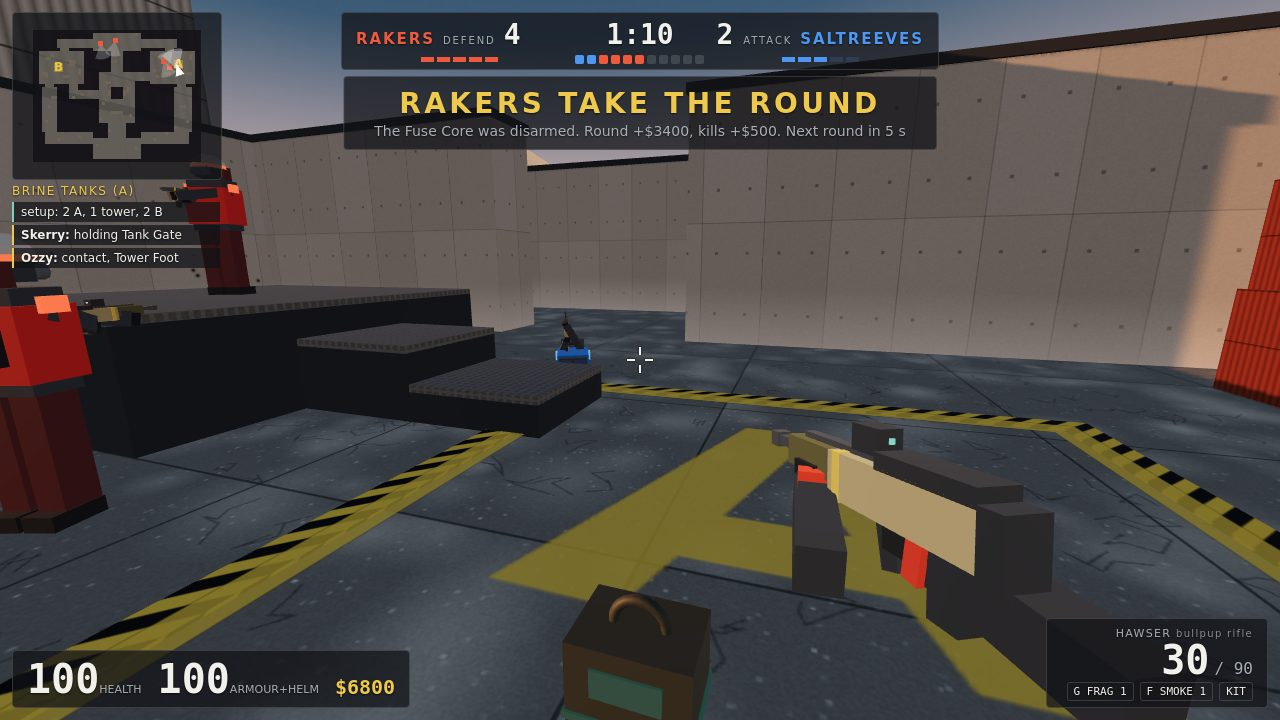
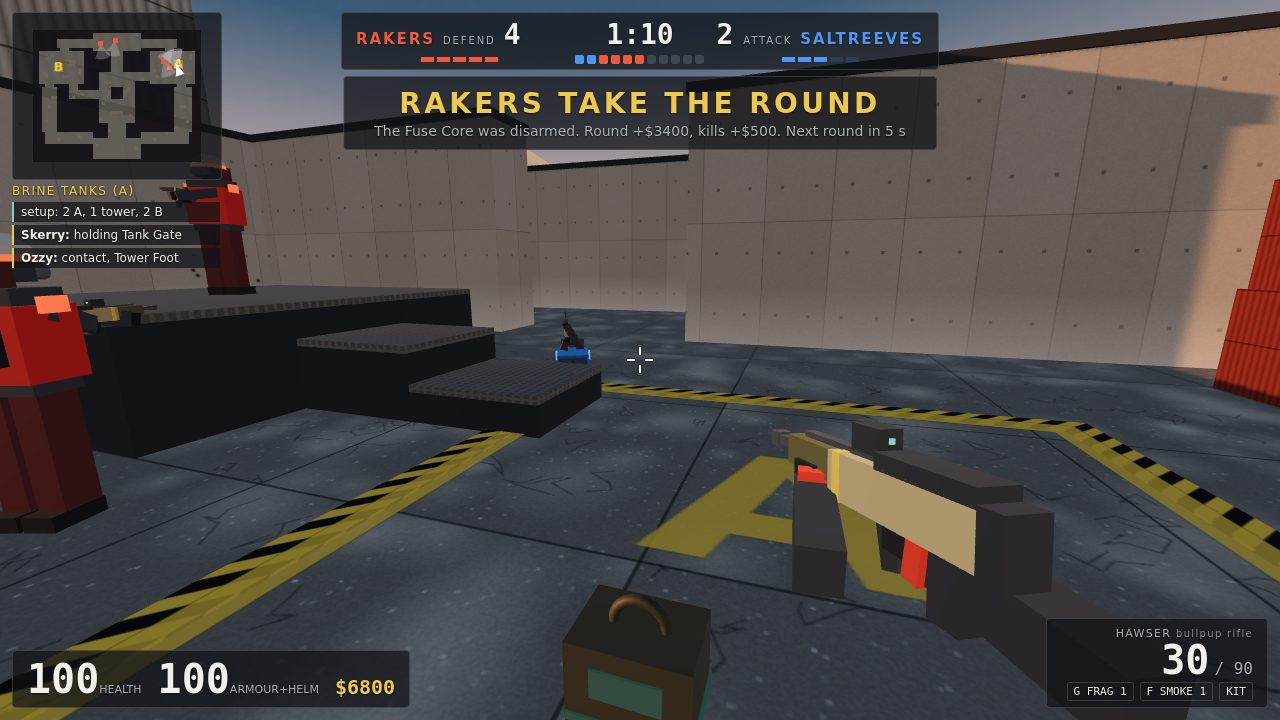
Site letters about half size inside the hazard edging, so the pads read as markings, not the frame

Changed region(s): [[0.375, 0.5806, 0.625, 0.8556], [0.6875, 0.825, 0.8438, 1.0], [0.6562, 0.7944, 0.6875, 0.825]]

diff --git a/game/src/render/textures.js b/game/src/render/textures.js
@@ -89,8 +89,8 @@ export const signTexture = (lines, accent) => paint(256, 0, '#22313a', (ctx) => 
 export const siteDecal = (letter) => paint(256, 3, '#0000', (ctx) => {
   ctx.globalAlpha = 0.85; ctx.strokeStyle = ctx.fillStyle = PALETTE.paint;
   ctx.lineWidth = 12; ctx.strokeRect(14, 14, 228, 228);
-  ctx.font = 'bold 170px sans-serif'; ctx.textAlign = 'center'; ctx.textBaseline = 'middle';
-  ctx.fillText(letter, 128, 136);
+  ctx.font = 'bold 96px sans-serif'; ctx.textAlign = 'center'; ctx.textBaseline = 'middle';
+  ctx.fillText(letter, 128, 132);
 });
 
 export const holeTexture = () => paint(64, 5, '#0000', (ctx) => radial(ctx, 32, 32, 30, [[0, '#0a0806'], [0.3, '#191410e6'], [0.6, '#3c322859'], [1, '#0000']]));
